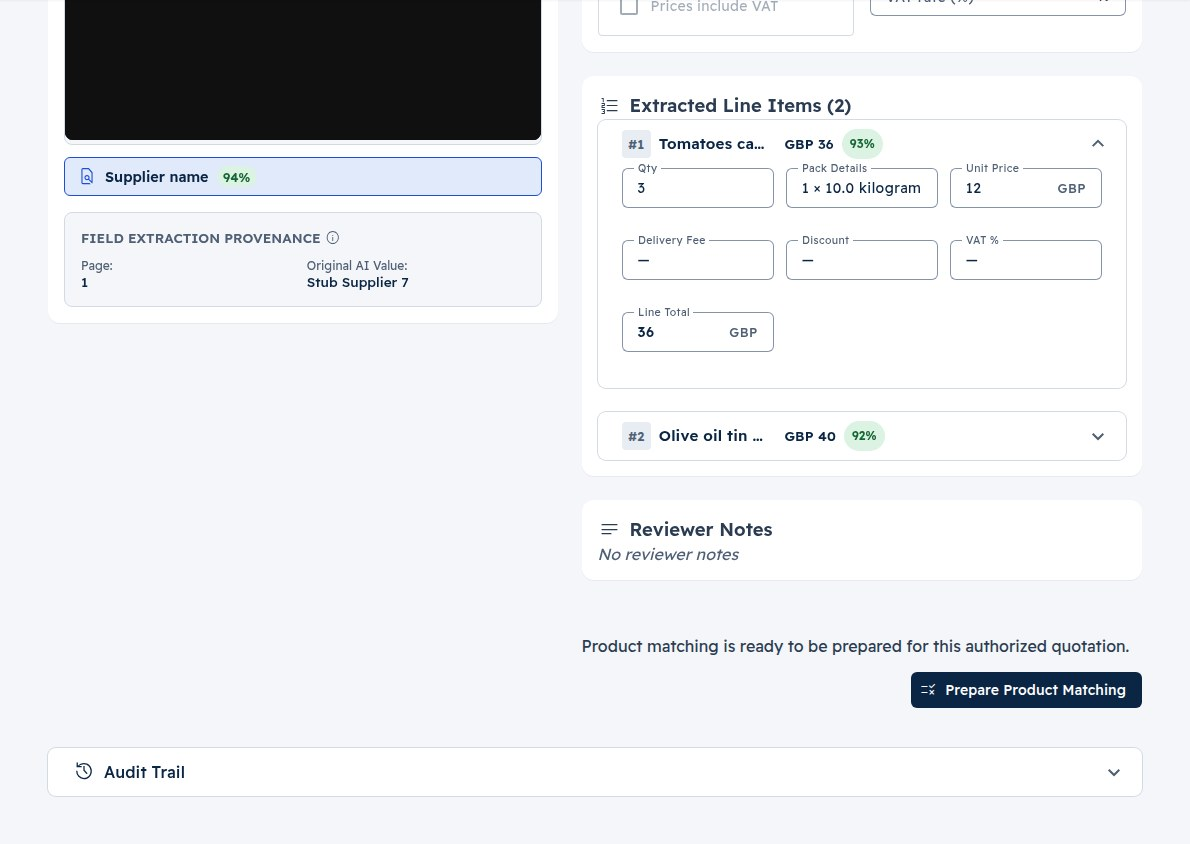
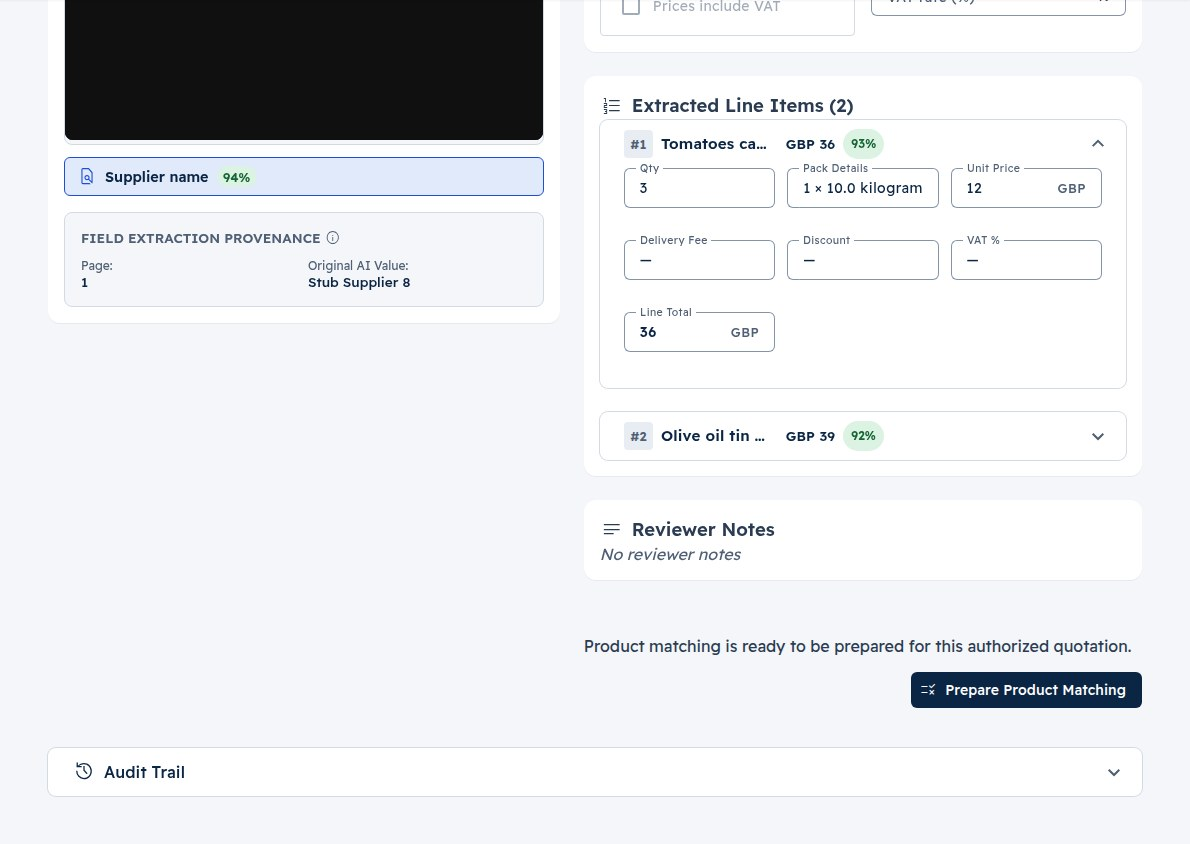
fix(quotations): an untouched stated-total blur stages nothing; refresh the detail screenshots (PPS-157)
Review finding: the stated-total input shows the amount rounded to two
decimals, and the blur handler staged that rounded value as a correction even
when nothing was edited. Blur now goes through reviewFieldValue only, as it did
before; edits still stage on input.

The line totals now include delivery, discount and VAT, so the two quotation
detail documentation screenshots are regenerated from CI.

diff --git a/apps/web/src/app/features/quotations/quotation-review/quotation-review.component.spec.ts b/apps/web/src/app/features/quotations/quotation-review/quotation-review.component.spec.ts
@@ -2249,5 +2249,157 @@ describe('QuotationReviewComponent (T051, T057, T062)', () => {
       expect(corr.currency).toBe('EGP');
       expect(corr.amount).toBe('500');
     });
+
+    it('(g) focus/blur on a high-confidence stated total with displayed text "1,234.57" without input event does not stage a correction', () => {
+      const feStatedTotal: FieldExtraction = {
+        ...mockQuotationDetail.field_extractions[0],
+        id: 'fe-stated-total',
+        entity_type: 'quotation',
+        entity_id: 'q-review-1',
+        field_name: 'stated_total',
+        extracted_value: { amount: '1234.5678', currency: 'GBP' },
+        confidence: '0.9500',
+        corrected_value: null,
+        corrected_by: null,
+      };
+      const q: QuotationDetail = {
+        ...mockQuotationDetail,
+        stated_total: { amount: '1234.5678', currency: 'GBP' },
+        field_extractions: [feStatedTotal],
+      };
+      component.quotation.set(q);
+      fixture.detectChanges();
+
+      const input = fixture.nativeElement.querySelector('#field-fe-stated-total input') as HTMLInputElement;
+      expect(input).toBeTruthy();
+      expect(input.value).toContain('1,234.57');
+
+      input.dispatchEvent(new Event('focus'));
+      input.dispatchEvent(new Event('blur'));
+      fixture.detectChanges();
+
+      expect(component.pendingCorrections().has('fe-stated-total')).toBeFalse();
+      expect(component.pendingCorrections().size).toBe(0);
+      expect(component.hasPendingReviewChanges()).toBeFalse();
+
+      component.onStatedTotalInput(q, '1,234.57', true);
+      expect(component.pendingCorrections().has('fe-stated-total')).toBeFalse();
+      expect(component.pendingCorrections().size).toBe(0);
+    });
+
+    it('(h) an input event with "1500" then blur creates a pending correction with amount "1500"', () => {
+      const feStatedTotal: FieldExtraction = {
+        ...mockQuotationDetail.field_extractions[0],
+        id: 'fe-stated-total',
+        entity_type: 'quotation',
+        entity_id: 'q-review-1',
+        field_name: 'stated_total',
+        extracted_value: { amount: '1234.5678', currency: 'GBP' },
+        confidence: '0.9500',
+        corrected_value: null,
+        corrected_by: null,
+      };
+      const q: QuotationDetail = {
+        ...mockQuotationDetail,
+        stated_total: { amount: '1234.5678', currency: 'GBP' },
+        field_extractions: [feStatedTotal],
+      };
+      component.quotation.set(q);
+      fixture.detectChanges();
+
+      const input = fixture.nativeElement.querySelector('#field-fe-stated-total input') as HTMLInputElement;
+      input.value = '1500';
+      input.dispatchEvent(new Event('input'));
+      input.dispatchEvent(new Event('blur'));
+      fixture.detectChanges();
+
+      expect(component.pendingCorrections().get('fe-stated-total')).toEqual({
+        amount: '1500',
+        currency: 'GBP',
+      });
+      expect(component.hasPendingReviewChanges()).toBeTrue();
+
+      component.pendingCorrections.set(new Map());
+      component.onStatedTotalInput(q, '1500', false);
+      component.onStatedTotalInput(q, '1500', true);
+      expect(component.pendingCorrections().get('fe-stated-total')).toEqual({
+        amount: '1500',
+        currency: 'GBP',
+      });
+    });
+
+    it('(i) blur with unparseable text stages nothing', () => {
+      const feStatedTotal: FieldExtraction = {
+        ...mockQuotationDetail.field_extractions[0],
+        id: 'fe-stated-total',
+        entity_type: 'quotation',
+        entity_id: 'q-review-1',
+        field_name: 'stated_total',
+        extracted_value: { amount: '1234.5678', currency: 'GBP' },
+        confidence: '0.9500',
+        corrected_value: null,
+        corrected_by: null,
+      };
+      const q: QuotationDetail = {
+        ...mockQuotationDetail,
+        stated_total: { amount: '1234.5678', currency: 'GBP' },
+        field_extractions: [feStatedTotal],
+      };
+      component.quotation.set(q);
+      fixture.detectChanges();
+
+      const input = fixture.nativeElement.querySelector('#field-fe-stated-total input') as HTMLInputElement;
+      input.value = 'abc';
+      input.dispatchEvent(new Event('blur'));
+      fixture.detectChanges();
+
+      expect(component.pendingCorrections().has('fe-stated-total')).toBeFalse();
+      expect(component.pendingCorrections().size).toBe(0);
+
+      component.onStatedTotalInput(q, 'not-a-number', true);
+      expect(component.pendingCorrections().has('fe-stated-total')).toBeFalse();
+      expect(component.pendingCorrections().size).toBe(0);
+    });
+
+    it('(j) low-confidence stated total blur keeps its existing reviewFieldValue behaviour', () => {
+      const lowConfidenceTotal: FieldExtraction = {
+        ...mockQuotationDetail.field_extractions[0],
+        id: 'fe-stated-total-low',
+        entity_type: 'quotation',
+        entity_id: 'q-review-1',
+        field_name: 'stated_total',
+        extracted_value: { amount: '1234.5678', currency: 'GBP' },
+        confidence: '0.5400',
+        corrected_value: null,
+        corrected_by: null,
+      };
+      const q: QuotationDetail = {
+        ...mockQuotationDetail,
+        stated_total: { amount: '1234.5678', currency: 'GBP' },
+        field_extractions: [lowConfidenceTotal],
+      };
+      component.quotation.set(q);
+      fixture.detectChanges();
+
+      const input = fixture.nativeElement.querySelector('#field-fe-stated-total-low input') as HTMLInputElement;
+      expect(input).toBeTruthy();
+
+      input.dispatchEvent(new Event('blur'));
+      fixture.detectChanges();
+
+      expect(component.pendingCorrections().get('fe-stated-total-low')).toEqual({
+        amount: '1234.57',
+        currency: 'GBP',
+      });
+      expect(component.hasPendingReviewChanges()).toBeTrue();
+
+      component.pendingCorrections.set(new Map());
+      component.onStatedTotalInput(q, '1,234.57', true);
+      expect(component.pendingCorrections().get('fe-stated-total-low')).toEqual({
+        amount: '1234.57',
+        currency: 'GBP',
+      });
+      expect(component.hasPendingReviewChanges()).toBeTrue();
+    });
   });
 });

diff --git a/apps/web/src/app/features/quotations/quotation-review/quotation-review.component.ts b/apps/web/src/app/features/quotations/quotation-review/quotation-review.component.ts
@@ -827,10 +827,22 @@ export class QuotationReviewComponent implements OnInit, OnDestroy {
       amount: parsed,
       currency: this.effectiveQuotationCurrency(),
     };
-    this.updateCorrection(fe.id, value);
     if (commit) {
       this.reviewFieldValue('quotation', q.id, 'stated_total', value);
+      return;
     }
+    const currentCorrection = this.pendingCorrections().get(fe.id);
+    if (
+      currentCorrection &&
+      typeof currentCorrection === 'object' &&
+      'amount' in currentCorrection &&
+      (currentCorrection as { amount: unknown }).amount === value.amount &&
+      'currency' in currentCorrection &&
+      (currentCorrection as { currency: unknown }).currency === value.currency
+    ) {
+      return;
+    }
+    this.updateCorrection(fe.id, value);
   }
 
   selectField(entityType: 'quotation' | 'quotation_line', entityId: string, fieldName: string): void {
